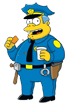
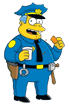
appearance and movement of policeman and hooligan

diff --git a/AngryPeople/PeopleMovements.js b/AngryPeople/PeopleMovements.js
@@ -89,8 +89,10 @@ function set_human(human,dir,type){
         human.className="ordinary";
 
     } else if (type=="ret"){
-        human.className="retired";
-        }
+                 human.className="retired";
+             }else if (type=="hoo"){
+                        human.className="hooligan";
+                }else human.className="policeman";
 
     if (dir=="left"){   //change direction
         human.style.webkitTransform="scale(-1,1)";
@@ -164,10 +166,17 @@ function get_type(){
     var type;
     var d=getRandom();
 
-    if (d>=0.25){
+    if (d<=0.5){
         type="ord";
-    } else{
-        type="ret";
+    } else{ if (d<=0.75)
+                type="ret";
+            else { if (d<=0.85)
+                         type="hoo";
+                   else {
+                         type="pol";
+                    }
+
+            }
     }
     return type;
 }
@@ -199,10 +208,30 @@ function create_person(_i,type) {
 
                     ArrPerson[_i] = new Retired(xxx.offsetWidth - 90, "left");
                 }
+                        }
+            else {
+                if  (type == "hoo")  {
+                    if (d == "right") {
+                        ArrPerson[_i] = new Hooligan(60, "right");
+                    }
+                    else {
 
+                        ArrPerson[_i] = new Hooligan(xxx.offsetWidth - 90, "left");
+                    }
+                }
+                else if (type == "pol")  {
+                        if (d == "right") {
+                            ArrPerson[_i] = new Policeman(60, "right");
+                        }
+                        else {
+
+                            ArrPerson[_i] = new Policeman(xxx.offsetWidth - 90, "left");
+                        }
+                }
+                }
             }
 
-        }
+
     addDiv(_i);
     people_in_window++;
     DivHuman[_i] = document.getElementById("human" + _i.toString());
@@ -217,7 +246,6 @@ function create_person(_i,type) {
     function peopleappear(num) {
         var i = 0;
         var t;
-        window.scrollTo(0, 1);
         var interval = setInterval(function () {
             if (i < num) {
                 t=get_type();
